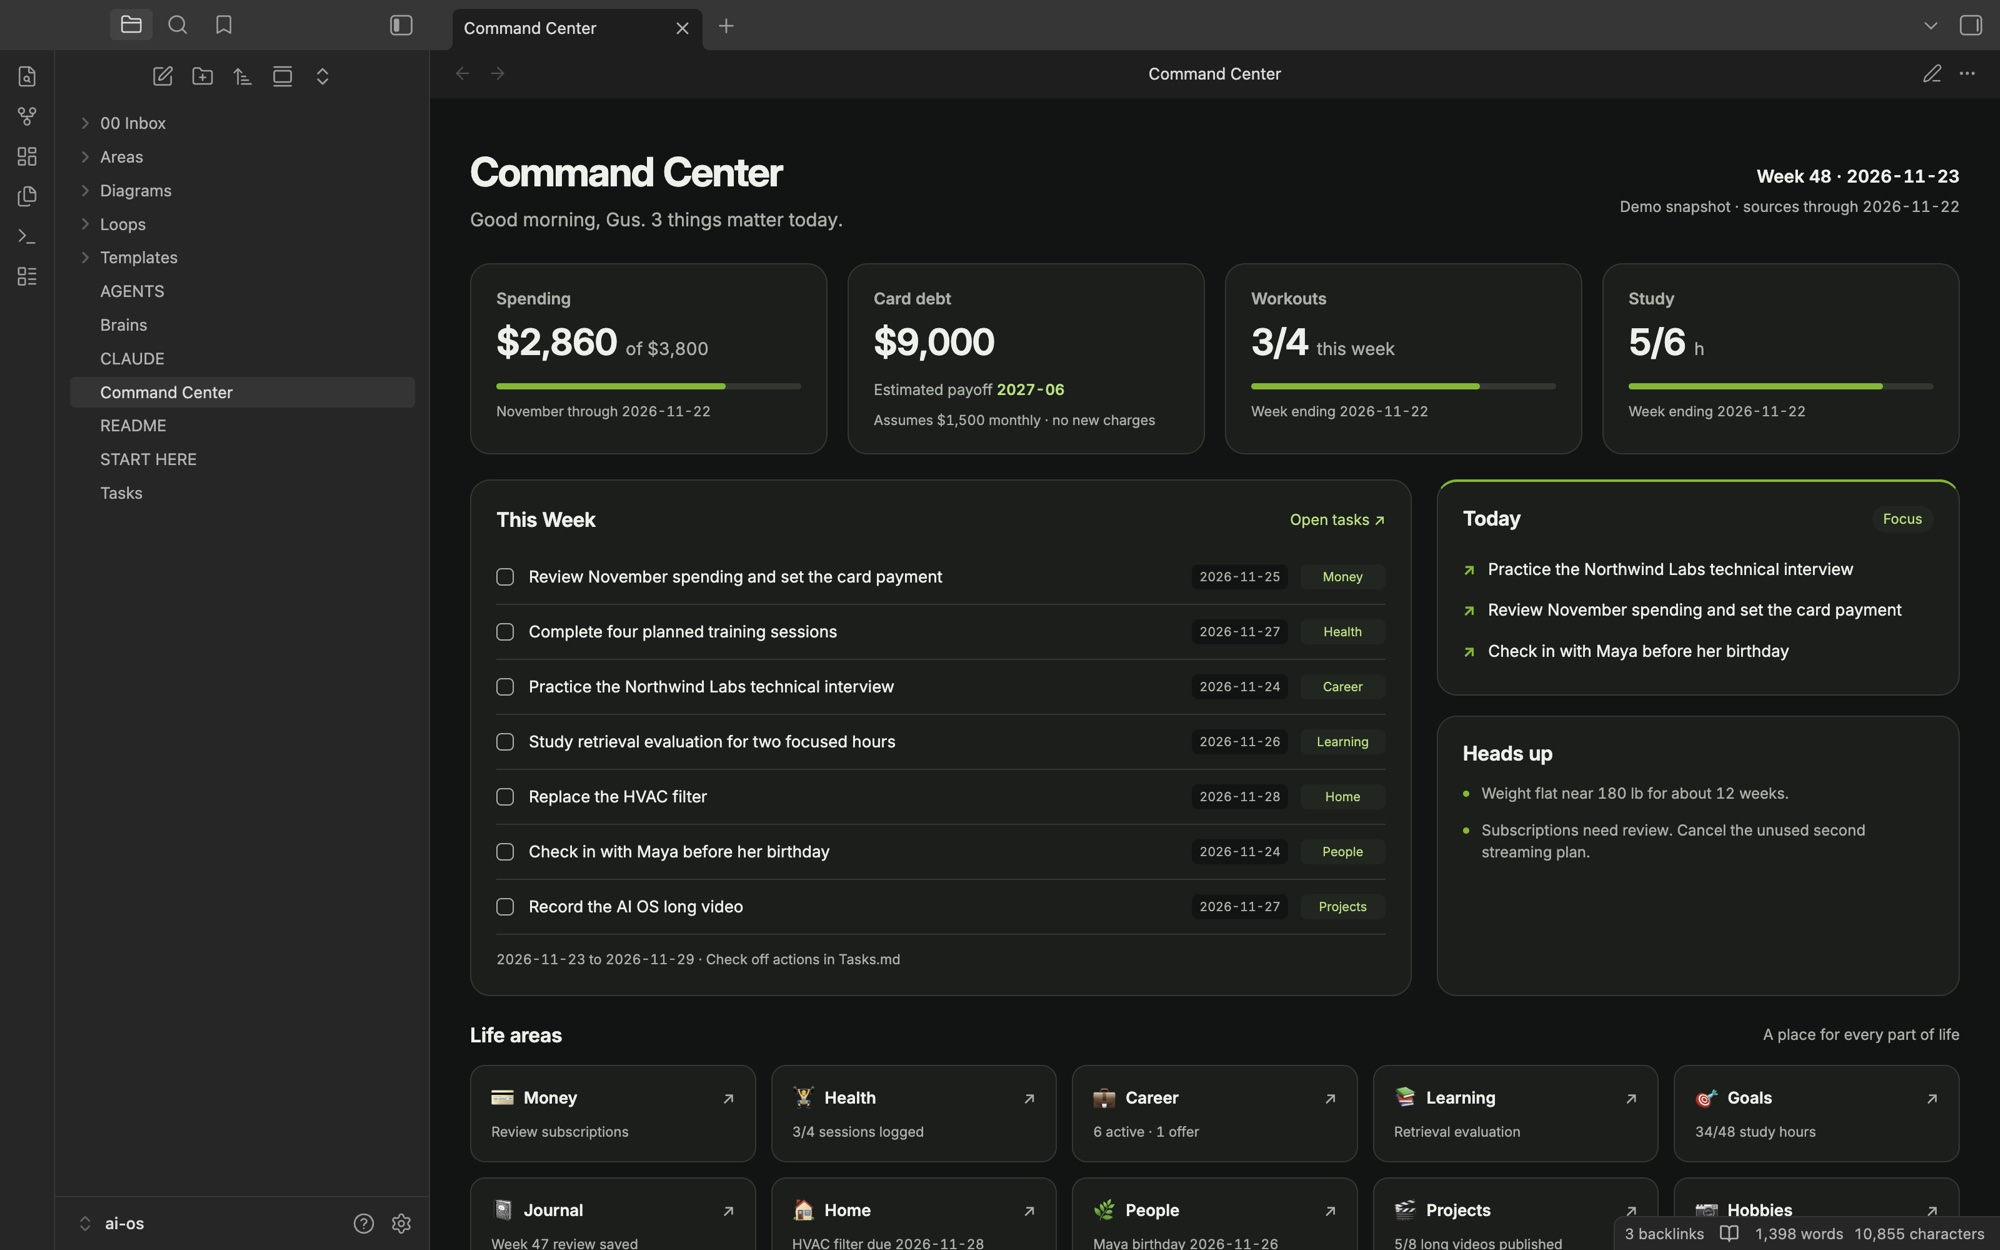
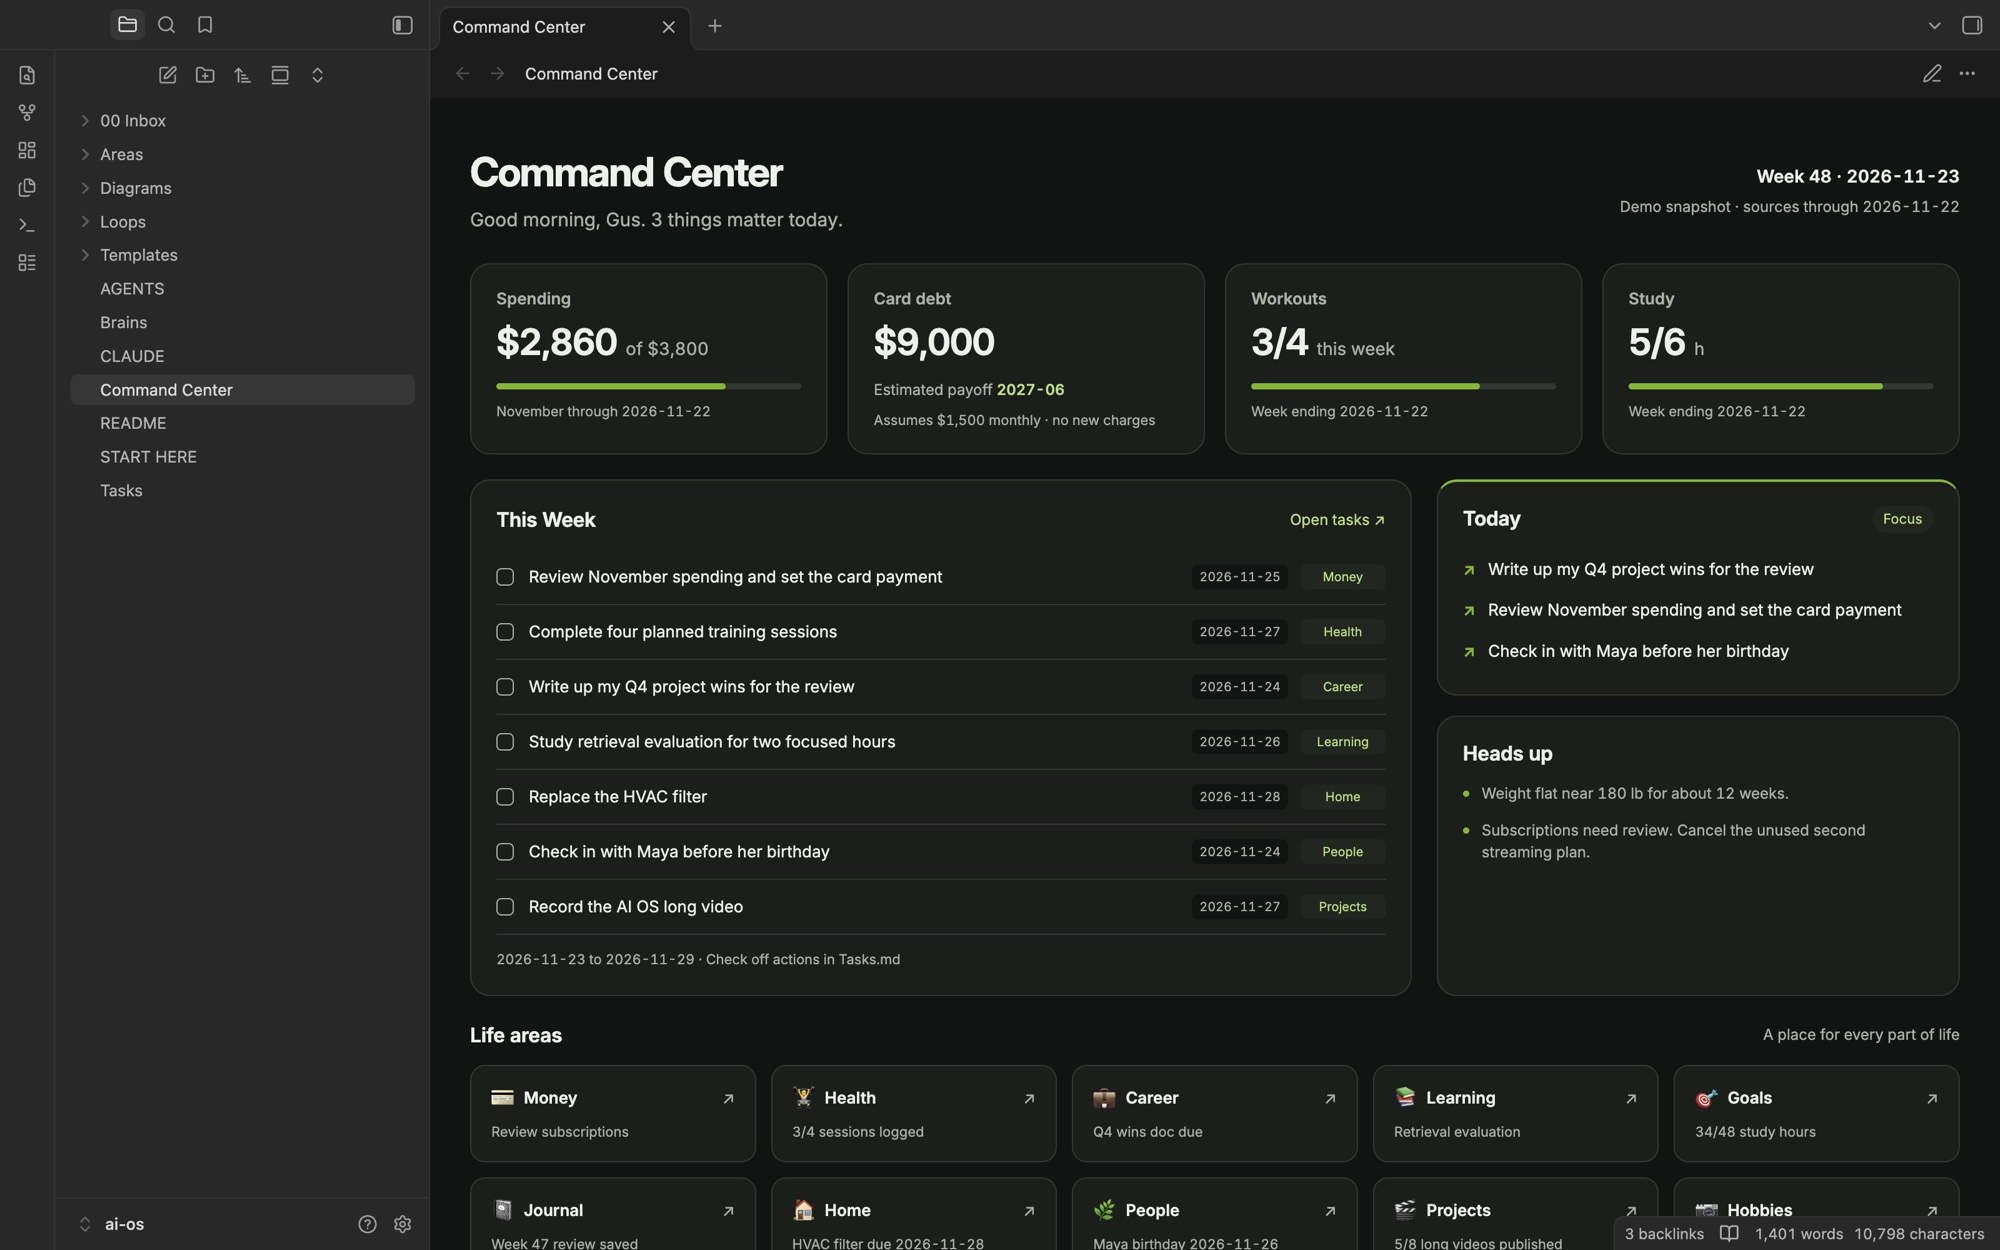
Swap the demo interview task for a Q4 wins doc

diff --git a/Command Center.md b/Command Center.md
@@ -10,21 +10,21 @@
 <div class="aios-card aios-week-card"><div class="aios-section-head"><span class="aios-heading" role="heading" aria-level="2">This Week</span><a class="internal-link aios-text-link" href="Tasks" data-href="Tasks">Open tasks ↗</a></div>
 <div class="aios-task"><span class="aios-checkbox" aria-hidden="true"></span><span class="aios-task-name">Review November spending and set the card payment</span><span class="aios-chip aios-date">2026-11-25</span><span class="aios-chip aios-area">Money</span></div>
 <div class="aios-task"><span class="aios-checkbox" aria-hidden="true"></span><span class="aios-task-name">Complete four planned training sessions</span><span class="aios-chip aios-date">2026-11-27</span><span class="aios-chip aios-area">Health</span></div>
-<div class="aios-task"><span class="aios-checkbox" aria-hidden="true"></span><span class="aios-task-name">Practice the Northwind Labs technical interview</span><span class="aios-chip aios-date">2026-11-24</span><span class="aios-chip aios-area">Career</span></div>
+<div class="aios-task"><span class="aios-checkbox" aria-hidden="true"></span><span class="aios-task-name">Write up my Q4 project wins for the review</span><span class="aios-chip aios-date">2026-11-24</span><span class="aios-chip aios-area">Career</span></div>
 <div class="aios-task"><span class="aios-checkbox" aria-hidden="true"></span><span class="aios-task-name">Study retrieval evaluation for two focused hours</span><span class="aios-chip aios-date">2026-11-26</span><span class="aios-chip aios-area">Learning</span></div>
 <div class="aios-task"><span class="aios-checkbox" aria-hidden="true"></span><span class="aios-task-name">Replace the HVAC filter</span><span class="aios-chip aios-date">2026-11-28</span><span class="aios-chip aios-area">Home</span></div>
 <div class="aios-task"><span class="aios-checkbox" aria-hidden="true"></span><span class="aios-task-name">Check in with Maya before her birthday</span><span class="aios-chip aios-date">2026-11-24</span><span class="aios-chip aios-area">People</span></div>
 <div class="aios-task"><span class="aios-checkbox" aria-hidden="true"></span><span class="aios-task-name">Record the AI OS long video</span><span class="aios-chip aios-date">2026-11-27</span><span class="aios-chip aios-area">Projects</span></div>
 <div class="aios-footnote">2026-11-23 to 2026-11-29 · Check off actions in Tasks.md</div></div>
 <div class="aios-sidebar">
-<div class="aios-card aios-today"><div class="aios-section-head"><span class="aios-heading" role="heading" aria-level="2">Today</span><span class="aios-pill">Focus</span></div><div class="aios-priority"><span class="aios-priority-mark">↗</span><span>Practice the Northwind Labs technical interview</span></div><div class="aios-priority"><span class="aios-priority-mark">↗</span><span>Review November spending and set the card payment</span></div><div class="aios-priority"><span class="aios-priority-mark">↗</span><span>Check in with Maya before her birthday</span></div></div>
+<div class="aios-card aios-today"><div class="aios-section-head"><span class="aios-heading" role="heading" aria-level="2">Today</span><span class="aios-pill">Focus</span></div><div class="aios-priority"><span class="aios-priority-mark">↗</span><span>Write up my Q4 project wins for the review</span></div><div class="aios-priority"><span class="aios-priority-mark">↗</span><span>Review November spending and set the card payment</span></div><div class="aios-priority"><span class="aios-priority-mark">↗</span><span>Check in with Maya before her birthday</span></div></div>
 <div class="aios-card aios-nudges"><div class="aios-heading" role="heading" aria-level="2">Heads up</div><div class="aios-nudge"><span class="aios-dot" aria-hidden="true"></span><span>Weight flat near 180 lb for about 12 weeks.</span></div><div class="aios-nudge"><span class="aios-dot" aria-hidden="true"></span><span>Subscriptions need review. Cancel the unused second streaming plan.</span></div></div>
 </div></div>
 <div class="aios-section-head aios-areas-head"><span class="aios-heading" role="heading" aria-level="2">Life areas</span><span class="aios-muted">A place for every part of life</span></div>
 <div class="aios-tiles">
 <a class="internal-link aios-tile" href="Areas/Money/Money" data-href="Areas/Money/Money"><span class="aios-tile-top"><span class="aios-icon" aria-hidden="true">💳</span><span class="aios-tile-name">Money</span><span class="aios-arrow" aria-hidden="true">↗</span></span><span class="aios-tile-status">Review subscriptions</span></a>
 <a class="internal-link aios-tile" href="Areas/Health/Health" data-href="Areas/Health/Health"><span class="aios-tile-top"><span class="aios-icon" aria-hidden="true">🏋</span><span class="aios-tile-name">Health</span><span class="aios-arrow" aria-hidden="true">↗</span></span><span class="aios-tile-status">3/4 sessions logged</span></a>
-<a class="internal-link aios-tile" href="Areas/Career/Career" data-href="Areas/Career/Career"><span class="aios-tile-top"><span class="aios-icon" aria-hidden="true">💼</span><span class="aios-tile-name">Career</span><span class="aios-arrow" aria-hidden="true">↗</span></span><span class="aios-tile-status">6 active · 1 offer</span></a>
+<a class="internal-link aios-tile" href="Areas/Career/Career" data-href="Areas/Career/Career"><span class="aios-tile-top"><span class="aios-icon" aria-hidden="true">💼</span><span class="aios-tile-name">Career</span><span class="aios-arrow" aria-hidden="true">↗</span></span><span class="aios-tile-status">Q4 wins doc due</span></a>
 <a class="internal-link aios-tile" href="Areas/Learning/Learning" data-href="Areas/Learning/Learning"><span class="aios-tile-top"><span class="aios-icon" aria-hidden="true">📚</span><span class="aios-tile-name">Learning</span><span class="aios-arrow" aria-hidden="true">↗</span></span><span class="aios-tile-status">Retrieval evaluation</span></a>
 <a class="internal-link aios-tile" href="Areas/Goals/Goals" data-href="Areas/Goals/Goals"><span class="aios-tile-top"><span class="aios-icon" aria-hidden="true">🎯</span><span class="aios-tile-name">Goals</span><span class="aios-arrow" aria-hidden="true">↗</span></span><span class="aios-tile-status">34/48 study hours</span></a>
 <a class="internal-link aios-tile" href="Areas/Journal/Journal" data-href="Areas/Journal/Journal"><span class="aios-tile-top"><span class="aios-icon" aria-hidden="true">📓</span><span class="aios-tile-name">Journal</span><span class="aios-arrow" aria-hidden="true">↗</span></span><span class="aios-tile-status">Week 47 review saved</span></a>
@@ -53,7 +53,7 @@ sort by due
 
 ## Due soon
 
-Plain fallback: open [[Tasks]] and scan dates through 2026-11-29. This snapshot's next deadlines are the interview practice and Maya check-in on 2026-11-24.
+Plain fallback: open [[Tasks]] and scan dates through 2026-11-29. This snapshot's next deadlines are the Q4 wins doc and Maya check-in on 2026-11-24.
 
 ```tasks
 not done
@@ -72,7 +72,7 @@ The fixed cutoff matches the demo week. The weekly-review skill advances it when
 | This month spend vs budget | $2,860 / $3,800 through 2026-11-22 | [[Areas/Money/Budget]] |
 | Workouts this week | 3/4 for 2026-11-16 to 2026-11-22 | [[Areas/Health/Workout Log]] |
 | Weight trend | Flat near 180 lb for about 12 weeks | [[Areas/Health/Body Metrics]] |
-| Applications active | 6, including 1 offer under review | [[Areas/Career/Job Applications]] |
+| Q4 wins doc | Due 2026-11-24 | [[Areas/Career/Career]] |
 | Study hours this week | 5/6 | [[Areas/Learning/Study Plan]] |
 
 Latest: [[Areas/Journal/Weekly Reviews/2026-W47]]. Previous: [[Areas/Journal/Weekly Reviews/2026-W46]]. Start: [[START HERE]].

diff --git a/Tasks.md b/Tasks.md
@@ -6,7 +6,7 @@ Single source of truth for actions. Demo snapshot: 2026-11-22. Move a task betwe
 
 - [ ] Review November spending and set the card payment #task #area/money ⏫ 📅 2026-11-25
 - [ ] Complete four planned training sessions #task #area/health 🔼 📅 2026-11-27
-- [ ] Practice the Northwind Labs technical interview #task #area/career ⏫ 📅 2026-11-24
+- [ ] Write up my Q4 project wins for the review #task #area/career ⏫ 📅 2026-11-24
 - [ ] Study retrieval evaluation for two focused hours #task #area/learning ⏫ 📅 2026-11-26
 - [ ] Replace the HVAC filter #task #area/home 🔼 📅 2026-11-28
 - [ ] Check in with Maya before her birthday #task #area/people 🔼 📅 2026-11-24

diff --git a/Areas/Health/Sleep.md b/Areas/Health/Sleep.md
@@ -5,7 +5,7 @@ Fictional target: 7.5 to 8 hours. Typical bedtime 23:00, wake time 07:00.
 | Week ending | Average sleep | Observation |
 |---|---|---|
 | 2026-11-08 | 7.4 hours | Better after earlier editing cutoff |
-| 2026-11-15 | 7.2 hours | One late interview practice |
+| 2026-11-15 | 7.2 hours | One late editing session |
 | 2026-11-22 | 6.9 hours | Two late video sessions |
 
 Next experiment: stop editing at 22:00 for one week. Keep the phone away from the bed. Mention sleep drift in the daily brief if the next weekly average stays below 7 hours.

diff --git a/.claude/skills/daily-brief/SKILL.md b/.claude/skills/daily-brief/SKILL.md
@@ -27,6 +27,6 @@ Command Center.md, generated Daily brief section only
 
 ## Output example
 
-2026-11-23 priorities: interview practice, spending review, recording preparation. Workout: Pull. Nudge: end editing at 22:00.
+2026-11-23 priorities: Q4 wins doc, spending review, recording preparation. Workout: Pull. Nudge: end editing at 22:00.
 
 If direct file access is unavailable, return the target path and proposed Markdown. Never claim a write happened until it is saved. Keep all public demo content fictional.
